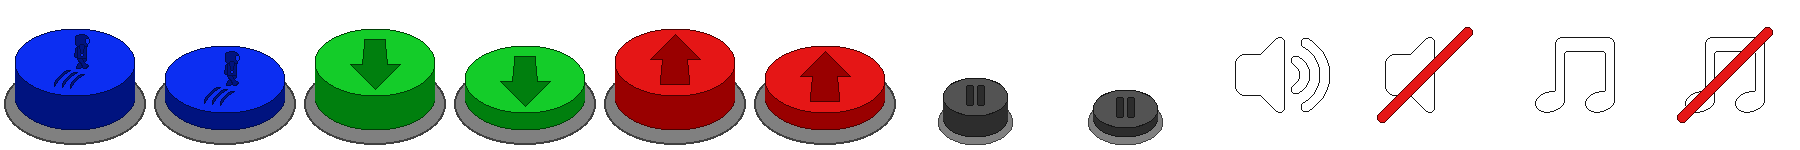
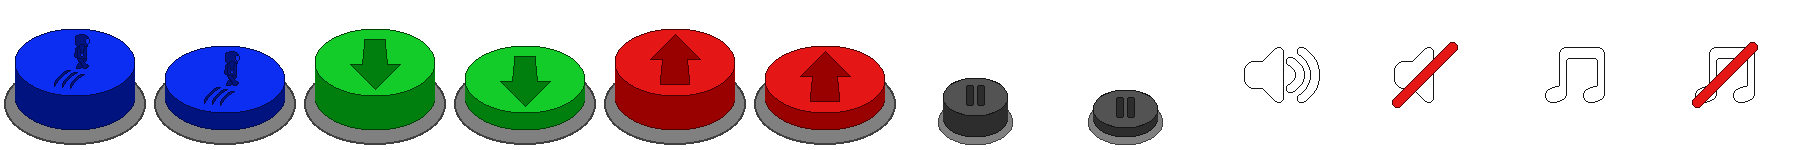
Decreased size of sound and music buttons and moved button hitboxes coordinates to params, also refactored mouse_over_area function to UI class

diff --git a/main.rb b/main.rb
@@ -57,18 +57,6 @@ class GravityRunner < (Gosu::Window)
 
     def needs_cursor?; true; end #enables mouse curser and touchscreen input
 
-    #returns true if mouse is within specified bounding box
-    def mouse_over_area?(min_x, min_y, max_x, max_y)
-        if mouse_x >= min_x && 
-            mouse_x <= max_x && 
-            mouse_y >= min_y && 
-            mouse_y <= max_y
-                return true
-        else
-            return false
-        end
-    end
-
     #flip global gravity direction
     def flip_gravity
         @ui.grav_button_ticks = @ticks + BUTTON_PRESS_TICKS
@@ -85,55 +73,58 @@ class GravityRunner < (Gosu::Window)
         case id
             #keyboard inputs
             when Gosu::KB_SPACE #jump
-                if !@paused && !@player.dead && @player.standing
+                if !@paused && !@game_over && @player.standing
                     @ui.jump_button_ticks = @player.jump(@ticks, @gravity)
                     @ui.play_jump_sound if @sound_on
                 end
             
             when Gosu::KB_RETURN #flip gravity
-                if !@paused && !@player.dead
+                if !@paused && !@game_over
                     flip_gravity 
                     @ui.play_gravity_sound if @sound_on
                 end
             
             when Gosu::KB_R #restart
-                new_game(true) if @player.dead
+                new_game(true) if @game_over
             
             when Gosu::KB_ESCAPE #pause
-                if !@player.dead
+                if !@game_over
                     @paused = @paused ? false : true #swap value
                 end
 
             #mouse / touchscreen inputs
             when Gosu::MsLeft
-                if @player.dead #click anywhere to restart
-                    new_game(true)
+                mouse_coords = [mouse_x, mouse_y]
 
-                elsif @paused 
-                    if mouse_over_area?(0, 50, 100, 140) #sound on/off button
+                if @game_over || @paused
+                    if @ui.mouse_over_button?(mouse_coords, SOUND_BUTTON_COORDS) #sound on/off button
                         @sound_on = @sound_on ? false : true #swap value
                         @ui.write_user_prefs(@sound_on, @music_on) #save preferences
                     
-                    elsif mouse_over_area?(SCREEN_WIDTH-100, 50, SCREEN_WIDTH, 140) #music on/off button
+                    elsif @ui.mouse_over_button?(mouse_coords, MUSIC_BUTTON_COORDS) #music on/off button
                         @music_on = @music_on ? false : true #swap value
                         @ui.write_user_prefs(@sound_on, @music_on) #save preferences
                     
-                    else #click anywhere to resume
-                        @paused = false
+                    else 
+                        if @game_over #click anywhere to restart
+                            new_game(true)
+                        elsif @paused #click anywhere to resume
+                            @paused = false
+                        end
                     end
                 
                 else
-                    if mouse_over_area?(0, SCREEN_HEIGHT-120, 150, SCREEN_HEIGHT) #jump button
+                    if @ui.mouse_over_button?(mouse_coords, JUMP_BUTTON_COORDS) #jump button
                         if @player.standing
                             @ui.jump_button_ticks = @player.jump(@ticks, @gravity)
                             @ui.play_jump_sound if @sound_on
                         end
                     
-                    elsif mouse_over_area?(SCREEN_WIDTH-150, SCREEN_HEIGHT-120, SCREEN_WIDTH, SCREEN_HEIGHT) #flip gravity button
+                    elsif @ui.mouse_over_button?(mouse_coords, GRAVITY_BUTTON_COORDS) #flip gravity button
                         flip_gravity
                         @ui.play_gravity_sound if @sound_on
                     
-                    elsif mouse_over_area?(SCREEN_WIDTH/2-50, SCREEN_HEIGHT-80, SCREEN_WIDTH/2+50, SCREEN_HEIGHT) #pause button
+                    elsif @ui.mouse_over_button?(mouse_coords, PAUSE_BUTTON_COORDS) #pause button
                         @paused = true
                     end
                 end
@@ -142,7 +133,7 @@ class GravityRunner < (Gosu::Window)
 
     #update game each frame (tick)
     def update
-        if !@player.dead && !@paused
+        if !@player.dead && !@game_over && !@paused
             @ticks += 1 #increment ticks
             @difficulty += DIFFICULTY_INCREASE #increase difficulty
             @score += @ui.ship.speed * SCORE_SCALER #increase score based on ship speed
@@ -193,13 +184,13 @@ class GravityRunner < (Gosu::Window)
             end
 
         elsif @player.dead && !@game_over
-            @game_over = true #set game_over to true so block only runs once when player dies
+            @game_over = true #set game_over true so block only runs once when player dies
             @ui.play_game_over_sound if @sound_on #play game over sound
 
             #pause player and enemy footstep sound effects
             @player.pause_footsteps_sound
             @enemies.each do |enemy|
-                enemy.pause_footsteps_sound
+                enemy.stop_footsteps_sound
             end
 
             #update highscore if current score higher
@@ -226,12 +217,10 @@ class GravityRunner < (Gosu::Window)
         @ui.ship.draw(ZOrder::SHIP)
 
         #DRAW OVERLAYS
-        if @show_instruct && !@player.dead && !@paused #draw instructions on first game
+        if @show_instruct && !@game_over && !@paused #draw instructions on first game
             @show_instruct = @ui.draw_instructions(ZOrder::OVERLAY, @ticks)
-        
-        elsif @player.dead #draw death screen overlay with restart instructions
-            @ui.draw_overlay(ZOrder::OVERLAY, 2)
-        
+        elsif @game_over #draw game over screen overlay
+            @ui.draw_game_over_screen(ZOrder::OVERLAY, @sound_on, @music_on)
         elsif @paused #pause screen overlay
             @ui.draw_pause_screen(ZOrder::OVERLAY, @sound_on, @music_on)
         end

diff --git a/params.rb b/params.rb
@@ -42,18 +42,25 @@ GAME_OVER_SOUND_PATH        = "media/game-over.mp3"             #game over sound
 PLAYER_FOOTSTEP_SOUND_PATH  = "media/player-footsteps.mp3"      #player footsteps looping sound effect file path
 ENEMY_FOOTSTEP_SOUND_PATH   = "media/enemy-footsteps.mp3"       #enemy footsteps looping sound effect file path
 
-#Screen size parameters
-SCREEN_WIDTH                = 800                               #game window width (pixels)
-SCREEN_HEIGHT               = 450                               #game window height (pixels)
-
 #Frame rate parameters
 FRAME_RATE                  = 60                                #frames per second
 UPDATE_INTERVAL             = 1.0 / FRAME_RATE * 1000           #ms interval between frames
 
-#Ship parameters
+#Screen size parameters
+SCREEN_WIDTH                = 800                               #game window width (pixels)
+SCREEN_HEIGHT               = 450                               #game window height (pixels)
+
+#Ship coordinate parameters
 FLOOR_Y                     = 300                               #y coord of floor (pixels)
 CEILING_Y                   = 50                                #y coord of ceiling (pixels)
 FLOOR_THICKNESS             = 15                                #floor thickness (pixels)
+
+#Button coordinate parameters [ x_min,              x_max,              y_min,              y_max         ]
+JUMP_BUTTON_COORDS          = [ 0,                  150,                SCREEN_HEIGHT-120,  SCREEN_HEIGHT ]
+GRAVITY_BUTTON_COORDS       = [ SCREEN_WIDTH-150,   SCREEN_WIDTH,       SCREEN_HEIGHT-120,  SCREEN_HEIGHT ]
+PAUSE_BUTTON_COORDS         = [ SCREEN_WIDTH/2-50,  SCREEN_WIDTH/2+50,  SCREEN_HEIGHT-80,   SCREEN_HEIGHT ]
+SOUND_BUTTON_COORDS         = [ 0,                  90,                 50,                 120           ]
+MUSIC_BUTTON_COORDS         = [ SCREEN_WIDTH-80,    SCREEN_WIDTH,       50,                 120           ]
 
 #Difficulty parameters
 DIFFICULTY_START            = 1.0                               #initial difficulty value

diff --git a/ui.rb b/ui.rb
@@ -26,6 +26,18 @@ class UI
         @ship.reset #reset ship to starting values
     end
 
+    #returns true if mouse is inside button bounding box
+    def mouse_over_button?(mouse_coords, button_coords)
+        if mouse_coords[0] >= button_coords[0] && 
+            mouse_coords[0] <= button_coords[1] && 
+            mouse_coords[1] >= button_coords[2] && 
+            mouse_coords[1] <= button_coords[3]
+                return true
+        else
+            return false
+        end
+    end
+
     #read highscore from file if it exists else create the file
     def read_highscore
         if File.exists?(HIGHSCORE_PATH)
@@ -109,15 +121,25 @@ class UI
         grav_button.draw_rot(  SCREEN_WIDTH,   SCREEN_HEIGHT, z_layer, 0, 1,   1, 1, 1)
     end
 
-    #draw pause screen overlay and sound buttons
-    def draw_pause_screen(z_layer, sound_on, music_on)
-        draw_overlay(z_layer, 3) #draw pause screen overlay
-
+    #draw sound and music on/off buttons
+    def draw_sound_buttons(z_layer, sound_on, music_on)
         sound_button = sound_on ? self.class.buttons[8] : self.class.buttons[9]
         music_button = music_on ? self.class.buttons[10] : self.class.buttons[11]
 
-        sound_button.draw_rot( -20,            20, z_layer, 0, 0, 0, 1, 1)
-        music_button.draw_rot( SCREEN_WIDTH+20, 20, z_layer, 0, 1, 0, 1, 1)
+        sound_button.draw_rot( -30,             10, z_layer, 0, 0, 0, 1, 1)
+        music_button.draw_rot( SCREEN_WIDTH+30, 10, z_layer, 0, 1, 0, 1, 1)
+    end
+
+    #draw pause screen overlay and sound buttons
+    def draw_pause_screen(z_layer, sound_on, music_on)
+        draw_overlay(z_layer, 3) #draw pause screen overlay
+        draw_sound_buttons(z_layer, sound_on, music_on)
+    end
+
+    #draw pause screen overlay and sound buttons
+    def draw_game_over_screen(z_layer, sound_on, music_on)
+        draw_overlay(z_layer, 2) #draw pause screen overlay
+        draw_sound_buttons(z_layer, sound_on, music_on)
     end
 
     #draw score and high score to screen
